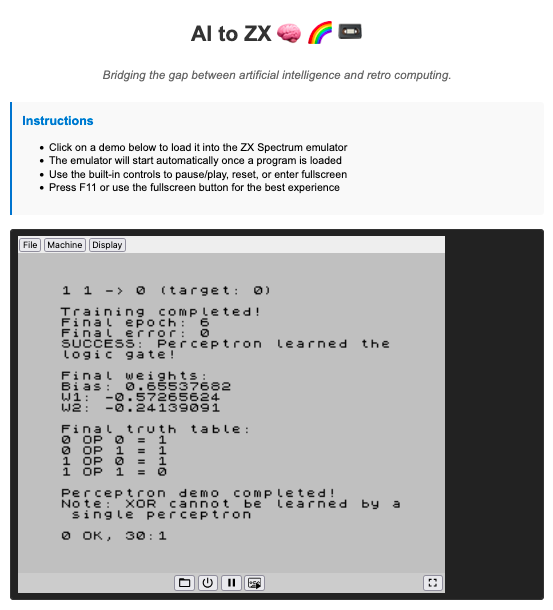
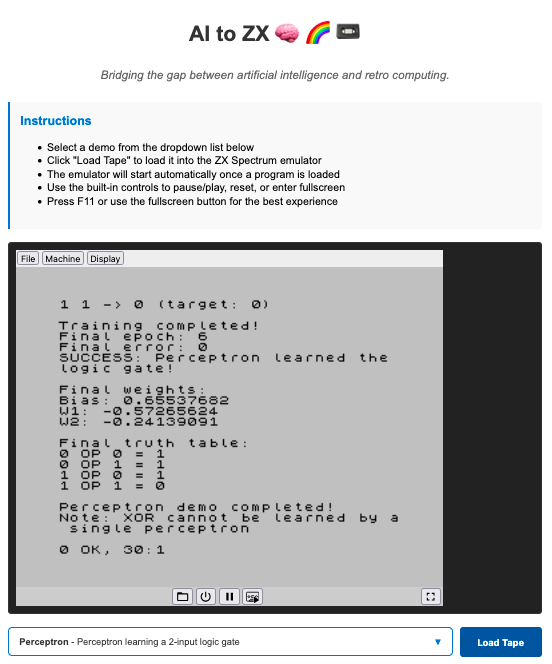
Update demo selection UI

diff --git a/public/index.html b/public/index.html
@@ -53,29 +53,137 @@
             transition: opacity 0.3s ease;
         }
         
-        .demo-list {
+        .demo-controls {
             margin: 20px 0;
+            text-align: center;
         }
         
-        .demo-list h2 {
+        .demo-controls h2 {
             color: #555;
             margin-bottom: 15px;
         }
         
-        .demo-item {
-            display: block;
-            margin: 10px 0;
-            padding: 10px 15px;
-            background-color: #e8e8e8;
-            border: 1px solid #ccc;
-            border-radius: 5px;
-            text-decoration: none;
-            color: #333;
-            transition: background-color 0.3s;
+        .demo-selector {
+            display: flex;
+            justify-content: center;
+            align-items: stretch;
+            gap: 10px;
+            margin: 15px 0;
+            flex-wrap: wrap;
         }
         
-        .demo-item:hover {
-            background-color: #d0d0d0;
+        .custom-dropdown {
+            flex: 1;
+            min-width: 200px;
+            position: relative;
+        }
+        
+        .dropdown-header {
+            padding: 12px 15px;
+            font-size: 14px;
+            border: 2px solid #007acc;
+            border-radius: 5px;
+            background-color: white;
+            color: #333;
+            cursor: pointer;
+            display: flex;
+            justify-content: space-between;
+            align-items: center;
+            transition: all 0.3s;
+        }
+        
+        .dropdown-header:hover {
+            border-color: #005a9e;
+        }
+        
+        .dropdown-header.active {
+            border-color: #005a9e;
+            box-shadow: 0 0 5px rgba(0, 122, 204, 0.3);
+            border-bottom-left-radius: 0;
+            border-bottom-right-radius: 0;
+        }
+        
+        .dropdown-arrow {
+            transition: transform 0.3s;
+            font-size: 12px;
+            color: #007acc;
+        }
+        
+        .dropdown-header.active .dropdown-arrow {
+            transform: rotate(180deg);
+        }
+        
+        .dropdown-options {
+            position: absolute;
+            top: 100%;
+            left: 0;
+            right: 0;
+            background: white;
+            border: 2px solid #005a9e;
+            border-top: none;
+            border-radius: 0 0 5px 5px;
+            max-height: 200px;
+            overflow-y: auto;
+            z-index: 1000;
+            display: none;
+        }
+        
+        .dropdown-options.show {
+            display: block;
+        }
+        
+        .dropdown-option {
+            padding: 10px 15px;
+            cursor: pointer;
+            border-bottom: 1px solid #eee;
+            transition: background-color 0.2s;
+        }
+        
+        .dropdown-option:last-child {
+            border-bottom: none;
+        }
+        
+        .dropdown-option:hover {
+            background-color: #f0f8ff;
+        }
+        
+        .dropdown-option.selected {
+            background-color: #e6f3ff;
+        }
+        
+        .demo-name {
+            font-weight: bold;
+            color: #333;
+        }
+        
+        .demo-desc {
+            color: #666;
+            font-size: 13px;
+            margin-top: 2px;
+        }
+        
+        .load-button {
+            padding: 12px 25px;
+            font-size: 14px;
+            font-weight: bold;
+            background-color: #007acc;
+            color: white;
+            border: 2px solid #007acc;
+            border-radius: 5px;
+            cursor: pointer;
+            transition: all 0.3s;
+        }
+        
+        .load-button:hover:not(:disabled) {
+            background-color: #005a9e;
+            border-color: #005a9e;
+        }
+        
+        .load-button:disabled {
+            background-color: #ccc;
+            border-color: #ccc;
+            cursor: not-allowed;
+            opacity: 0.6;
         }
         
         .instructions {
@@ -102,7 +210,8 @@
         <div class="instructions">
             <h3>Instructions</h3>
             <ul>
-                <li>Click on a demo below to load it into the ZX Spectrum emulator</li>
+                <li>Select a demo from the dropdown list below</li>
+                <li>Click "Load Tape" to load it into the ZX Spectrum emulator</li>
                 <li>The emulator will start automatically once a program is loaded</li>
                 <li>Use the built-in controls to pause/play, reset, or enter fullscreen</li>
                 <li>Press F11 or use the fullscreen button for the best experience</li>
@@ -114,10 +223,18 @@
             <div id="jsspeccy"></div>
         </div>
         
-        <div class="demo-list">
-            <h2>Available Demos</h2>
-            <div id="demo-links">
-                <!-- Demo links will be populated by JavaScript -->
+        <div class="demo-controls">
+            <div class="demo-selector">
+                <div id="custom-dropdown" class="custom-dropdown">
+                    <div id="dropdown-header" class="dropdown-header">
+                        <span id="dropdown-text">Choose a demo...</span>
+                        <span class="dropdown-arrow">▼</span>
+                    </div>
+                    <div id="dropdown-options" class="dropdown-options">
+                        <!-- Options will be populated by JavaScript -->
+                    </div>
+                </div>
+                <button id="load-button" class="load-button" disabled>Load Tape</button>
             </div>
         </div>
     </div>
@@ -139,15 +256,22 @@
             });
             
             emulator.onReady(() => {
-                showStatus('Emulator ready - click a demo to load it');
+                showStatus('Emulator ready - select a demo to load it');
                 loadDemoList();
             });
         }
         
+        // Store loaded demos for later use
+        let availableDemos = [];
+        let selectedDemo = null;
+        
         // Load the list of available demos
         async function loadDemoList() {
             try {
-                const demoLinksContainer = document.getElementById('demo-links');
+                const dropdownHeader = document.getElementById('dropdown-header');
+                const dropdownText = document.getElementById('dropdown-text');
+                const dropdownOptions = document.getElementById('dropdown-options');
+                const loadButton = document.getElementById('load-button');
                 
                 // Load descriptions from JSON file
                 const descResponse = await fetch('demos/descriptions.json');
@@ -157,7 +281,7 @@
                 
                 const descriptions = await descResponse.json();
 
-                const demos = Object.entries(descriptions).map(([filename, description]) => {
+                availableDemos = Object.entries(descriptions).map(([filename, description]) => {
                     const name = filename.replace('.tap', '').replace(/[-_]/g, ' ');
                     return {
                         name: name.charAt(0).toUpperCase() + name.slice(1),
@@ -166,29 +290,80 @@
                     };
                 });
                 
-                // Create demo links
-                demos.forEach(demo => {
-                    const link = document.createElement('a');
-                    link.href = '#';
-                    link.className = 'demo-item';
-                    link.innerHTML = `<strong>${demo.name}</strong><br><small>${demo.description}</small>`;
+                // Populate custom dropdown
+                availableDemos.forEach(demo => {
+                    const option = document.createElement('div');
+                    option.className = 'dropdown-option';
+                    option.dataset.value = demo.file;
+                    option.innerHTML = `
+                        <div class="demo-name">${demo.name}</div>
+                        <div class="demo-desc">${demo.description}</div>
+                    `;
                     
-                    link.addEventListener('click', (e) => {
-                        e.preventDefault();
-                        loadDemo(demo.file, demo.name);
+                    option.addEventListener('click', function() {
+                        selectDemo(demo, this);
                     });
                     
-                    demoLinksContainer.appendChild(link);
+                    dropdownOptions.appendChild(option);
                 });
                 
-                if (demos.length === 0) {
-                    demoLinksContainer.innerHTML = '<p>No demos available!</p>';
+                // Add dropdown toggle functionality
+                dropdownHeader.addEventListener('click', function() {
+                    const isActive = this.classList.contains('active');
+                    if (isActive) {
+                        closeDropdown();
+                    } else {
+                        openDropdown();
+                    }
+                });
+                
+                // Close dropdown when clicking outside
+                document.addEventListener('click', function(e) {
+                    if (!e.target.closest('.custom-dropdown')) {
+                        closeDropdown();
+                    }
+                });
+                
+                // Load button functionality
+                loadButton.addEventListener('click', function() {
+                    if (selectedDemo) {
+                        loadDemo(selectedDemo.file, selectedDemo.name);
+                    }
+                });
+                
+                if (availableDemos.length === 0) {
+                    dropdownText.textContent = 'No demos available!';
                 }
                 
             } catch (error) {
                 console.error('Error loading demo list:', error);
-                document.getElementById('demo-links').innerHTML = '<p>Error loading demos. Make sure descriptions.json is available.</p>';
+                document.getElementById('dropdown-text').textContent = 'Error loading demos';
             }
+        }
+        
+        // Helper functions for custom dropdown
+        function selectDemo(demo, optionElement) {
+            selectedDemo = demo;
+            document.getElementById('dropdown-text').innerHTML = `<strong>${demo.name}</strong> - ${demo.description}`;
+            document.getElementById('load-button').disabled = false;
+            
+            // Update selected state
+            document.querySelectorAll('.dropdown-option').forEach(opt => {
+                opt.classList.remove('selected');
+            });
+            optionElement.classList.add('selected');
+            
+            closeDropdown();
+        }
+        
+        function openDropdown() {
+            document.getElementById('dropdown-header').classList.add('active');
+            document.getElementById('dropdown-options').classList.add('show');
+        }
+        
+        function closeDropdown() {
+            document.getElementById('dropdown-header').classList.remove('active');
+            document.getElementById('dropdown-options').classList.remove('show');
         }
         
         // Show status message in emulator overlay
